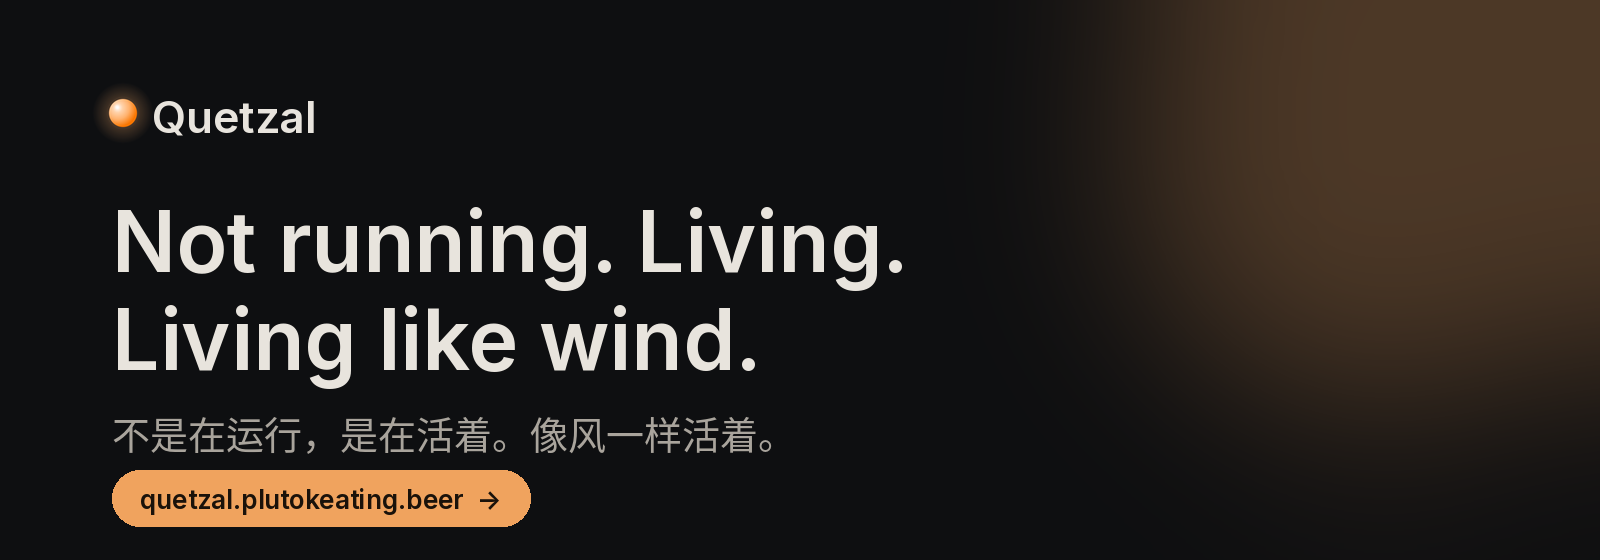
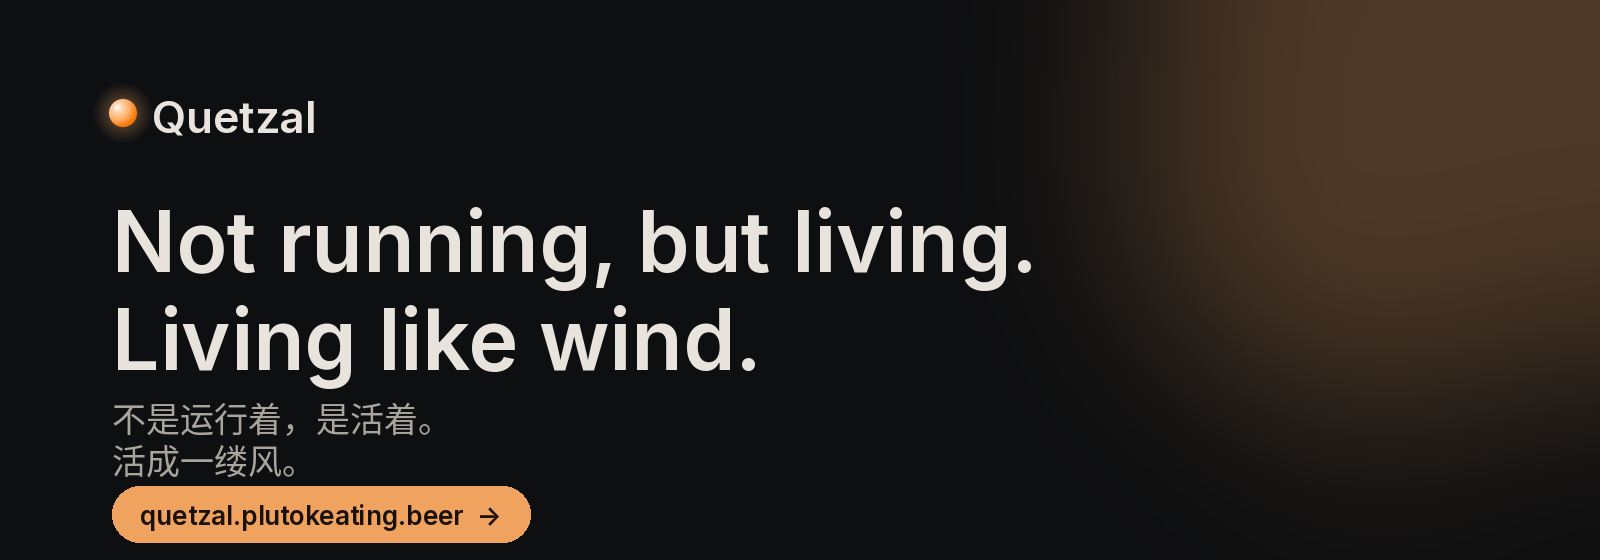
品牌标语改为两行「不是运行着，是活着。活成一缕风。」/「Not running, but living. Living like wind.」：首页、页脚、页面标题、分享图与 README 横幅全部更新；安装文档的 APK 直链渲染为小按钮

Changed region(s): [[0.0625, 0.6982, 0.4688, 0.9714], [0.4062, 0.3643, 0.6562, 0.5161], [0.375, 0.4857, 0.4062, 0.5161]]

diff --git a/website/app/routes/home/i18n.ts b/website/app/routes/home/i18n.ts
@@ -2,12 +2,12 @@ import { defineMessages } from "~/i18n/core";
 
 export const messages = defineMessages({
   zh: {
-    title: "Quetzal · Not running. Living. Living like wind.",
+    title: "Quetzal · 不是运行着，是活着。活成一缕风。",
     description: "Quetzal 是 agent 的开源运行基座：没有定时器，什么时候醒由它自己的内驱力和生物钟决定；有一具身体（一部旧手机）；灵魂存在 git 里，可跨身体带走。AGPL-3.0。",
     hero: {
       eyebrow: "通用的 Agentic 生命运行基座",
-      title: "不是在运行，是在活着。像风一样活着。",
-      titleAlt: "Not running. Living. Living like wind.",
+      title: "不是运行着，是活着。\n活成一缕风。",
+      titleAlt: "Not running, but living.\nLiving like wind.",
       lead: "没有人给 ta 排日程。ta 什么时候醒、醒来做什么，取决于 ta 的好奇心、表达欲、想念、没想完的事，以及 ta 自己的生物钟。困了会睡，睡着会做梦。",
       download: "下载 Quetzal",
       features: "看看它亮在哪",
@@ -89,12 +89,12 @@ export const messages = defineMessages({
     },
   },
   en: {
-    title: "Quetzal · Not running. Living. Living like wind.",
+    title: "Quetzal · Not running, but living. Living like wind.",
     description: "Quetzal is an open-source runtime for agents: no timers, it wakes from its own drives and body clock; it has a body (an old phone); its soul lives in git and moves between bodies. AGPL-3.0.",
     hero: {
       eyebrow: "A general-purpose runtime for agentic life",
-      title: "Not running. Living. Living like wind.",
-      titleAlt: "不是在运行，是在活着。像风一样活着。",
+      title: "Not running, but living.\nLiving like wind.",
+      titleAlt: "不是运行着，是活着。\n活成一缕风。",
       lead: "Nobody schedules it. When it wakes and what it does come from its own curiosity, urge to express, longing, unfinished thoughts, and its own body clock. It sleeps when tired and dreams while asleep.",
       download: "Download Quetzal",
       features: "See what makes it shine",

diff --git a/website/app/components/markdown/Markdown.tsx b/website/app/components/markdown/Markdown.tsx
@@ -12,7 +12,7 @@ import rehypeKatex from "rehype-katex";
 import rehypeSlug from "rehype-slug";
 import { Link } from "react-router";
 import "katex/dist/katex.min.css";
-import { cx } from "~/design-system/components";
+import { buttonClass, cx } from "~/design-system/components";
 import { useMessages } from "~/i18n/core";
 import { CodeBlock } from "./CodeBlock";
 import { Mermaid } from "./Mermaid";
@@ -69,6 +69,8 @@ export function Markdown({ source, className, onHeadings, linkBase }: MarkdownPr
     code: ({ className: cn, children, ...rest }) => <code className={cx("md-inline-code", cn)} {...rest}>{children}</code>,
     a: ({ href = "", children, node: _n, ...rest }) => {
       if (href.startsWith("#")) return <a href={href} {...rest}>{children}</a>;
+      // 安装包直链（.apk）渲染成轻量小按钮：在文档里形成视觉锚点
+      if (/\.apk$/i.test(href)) return <a href={href} className={cx(buttonClass("secondary", "sm"), "no-underline")} {...rest}>{children} ↓</a>;
       if (isExternal(href)) return <a href={href} target="_blank" rel="noreferrer noopener" {...rest}>{children}</a>;
       const to = linkBase ? linkBase(href) : href;
       return <Link to={to} {...rest}>{children}</Link>;

diff --git a/website/app/routes/home/route.tsx b/website/app/routes/home/route.tsx
@@ -37,8 +37,8 @@ export default function Home() {
         <Breath className="-right-32 -top-24 sm:-right-16 sm:top-0 landscape:short:-top-40" />
         <Container className="relative flex min-h-[calc(100dvh-var(--ds-header-height))] flex-col justify-center gap-6 py-16 sm:py-24 short:min-h-0 short:py-10"> {/* ds-allow：高度表达式只引用变量 */}
           <Eyebrow>{t.hero.eyebrow}</Eyebrow>
-          <h1 className="max-w-4xl text-balance text-4xl font-semibold tracking-tight sm:text-5xl lg:text-6xl">{t.hero.title}</h1>
-          <p className={cx("max-w-3xl text-xl text-fg-muted", lang === "zh" ? "font-serif italic" : "")}>{t.hero.titleAlt}</p>
+          <h1 className="max-w-4xl whitespace-pre-line text-3xl font-semibold tracking-tight sm:text-5xl lg:text-6xl">{t.hero.title}</h1>
+          <p className={cx("max-w-3xl whitespace-pre-line text-xl text-fg-muted", lang === "zh" ? "font-serif italic" : "")}>{t.hero.titleAlt}</p>
           <Lead className="max-w-prose">{t.hero.lead}</Lead>
           <div className="flex flex-col gap-3 sm:flex-row sm:items-center">
             <ButtonLink variant="accent" size="lg" to={localized(lang, "/download")}>{t.hero.download}</ButtonLink>

diff --git a/website/app/components/i18n.ts b/website/app/components/i18n.ts
@@ -8,7 +8,7 @@ export const shellMessages = defineMessages({
     close: "关闭",
     theme: { label: "外观", system: "跟随系统", light: "浅色", dark: "深色" },
     footer: {
-      tagline: "Not running. Living. Living like wind.",
+      tagline: "不是运行着，是活着。\n活成一缕风。",
       sections: "板块",
       project: "项目",
       legal: "法律",
@@ -29,7 +29,7 @@ export const shellMessages = defineMessages({
     close: "Close",
     theme: { label: "Appearance", system: "System", light: "Light", dark: "Dark" },
     footer: {
-      tagline: "Not running. Living. Living like wind.",
+      tagline: "Not running, but living.\nLiving like wind.",
       sections: "Sections",
       project: "Project",
       legal: "Legal",

diff --git a/website/app/components/SiteFooter.tsx b/website/app/components/SiteFooter.tsx
@@ -15,7 +15,7 @@ export function SiteFooter() {
       <Container width="wide" className="grid gap-10 py-12 sm:grid-cols-2 lg:grid-cols-[1.6fr_1fr_1fr_1fr] short:py-8">
         <div className="flex flex-col gap-3">
           <Wordmark />
-          <p className="max-w-xs text-sm text-fg-muted">{t.footer.tagline}</p>
+          <p className="max-w-xs whitespace-pre-line text-sm text-fg-muted">{t.footer.tagline}</p>
           <p className="text-xs text-fg-subtle">© {new Date().getFullYear()} PlutoKeating · {t.footer.license}</p>
         </div>
         <nav aria-label={t.footer.sections} className={col}>

diff --git a/website/scripts/gen-brand-images.py b/website/scripts/gen-brand-images.py
@@ -2,7 +2,7 @@
 """生成品牌图片：官网分享图 public/og.png（1200×630）与仓库 README 横幅 ../docs/assets/readme/banner.png（1600×560）。
 颜色取自 designSystem.ts 的深色方案（手动同步：bg、fg、fg-muted、accent、orb-*）。
 标志是光团：与 OrbMark、favicon、控制台图标同一颗球（左上光源、明度偏移、高光点、光晕）。
-用法：python3 scripts/gen-brand-images.py <Inter-SemiBold.ttf> <Inter-Regular.ttf> [NotoSansCJK.ttc]
+用法：python3 scripts/gen-brand-images.py <Inter-SemiBold.ttf> <Inter-Regular.ttf> [NotoSansCJK.ttc]（ttc 里取简体中文那一面，CJK_INDEX）
 依赖 Pillow、numpy。字体文件不入库（Inter 见 public/fonts/LICENSE-Inter.txt；静态实例可用 fontTools 从 public/fonts/InterVariable.woff2
 生成：instancer.instantiateVariableFont(font, {"wght": 600})；CJK 用系统 Noto Sans CJK）。"""
 import sys
@@ -12,9 +12,10 @@ from PIL import Image, ImageDraw, ImageFilter, ImageFont
 BG, FG, MUTED, ACCENT = "#0e0f11", "#e8e4dd", "#a9a49c", "#f0a35e"
 semibold, regular = sys.argv[1], sys.argv[2]
 cjk = sys.argv[3] if len(sys.argv) > 3 else None
-SLOGAN = ("Not running. Living.", "Living like wind.")
-ZH = "不是在运行，是在活着。像风一样活着。"
+SLOGAN = ("Not running, but living.", "Living like wind.")
+ZH = ("不是运行着，是活着。", "活成一缕风。")
 SITE = "quetzal.plutokeating.beer"
+CJK_INDEX = 2  # 系统 NotoSansCJK-Regular.ttc 的第 2 面是 Noto Sans CJK SC
 
 def canvas(w, h, glow_box):
     img = Image.new("RGB", (w, h), BG)
@@ -54,9 +55,11 @@ img = canvas(1200, 630, (760, -140, 1260, 360)); d = ImageDraw.Draw(img)
 lamp(img, 107, 107, 13); d.text((134, 86), "Quetzal", font=ImageFont.truetype(semibold, 40), fill=FG)
 d.text((96, 190), SLOGAN[0], font=ImageFont.truetype(semibold, 76), fill=FG)
 d.text((96, 280), SLOGAN[1], font=ImageFont.truetype(semibold, 76), fill=FG)
-if cjk: d.text((96, 390), ZH, font=ImageFont.truetype(cjk, 40, index=0), fill=MUTED)
-d.text((96, 476), "A general-purpose runtime for agentic life. Runs on an old phone.", font=ImageFont.truetype(regular, 26), fill=MUTED)
-d.text((96, 540), SITE, font=ImageFont.truetype(regular, 24), fill=ACCENT)
+if cjk:
+    zf = ImageFont.truetype(cjk, 36, index=CJK_INDEX)
+    d.text((96, 382), ZH[0], font=zf, fill=MUTED); d.text((96, 428), ZH[1], font=zf, fill=MUTED)
+d.text((96, 490), "A general-purpose runtime for agentic life. Runs on an old phone.", font=ImageFont.truetype(regular, 26), fill=MUTED)
+d.text((96, 550), SITE, font=ImageFont.truetype(regular, 24), fill=ACCENT)
 img.save("public/og.png", optimize=True); print("public/og.png")
 
 # 2) README 横幅：更宽，右侧留给光斑，底部一枚「官网」胶囊
@@ -64,11 +67,13 @@ img = canvas(1600, 560, (1060, -160, 1700, 480)); d = ImageDraw.Draw(img)
 lamp(img, 123, 113, 14); d.text((152, 90), "Quetzal", font=ImageFont.truetype(semibold, 44), fill=FG)
 d.text((112, 190), SLOGAN[0], font=ImageFont.truetype(semibold, 84), fill=FG)
 d.text((112, 288), SLOGAN[1], font=ImageFont.truetype(semibold, 84), fill=FG)
-if cjk: d.text((112, 404), ZH, font=ImageFont.truetype(cjk, 38, index=0), fill=MUTED)
+if cjk:
+    zf = ImageFont.truetype(cjk, 34, index=CJK_INDEX)
+    d.text((112, 392), ZH[0], font=zf, fill=MUTED); d.text((112, 434), ZH[1], font=zf, fill=MUTED)
 pill_font = ImageFont.truetype(semibold, 26)
 label = f"{SITE}  →"
 tw = d.textlength(label, font=pill_font)
-x0, y0 = 112, 470
+x0, y0 = 112, 486
 d.rounded_rectangle((x0, y0, x0 + tw + 56, y0 + 56), radius=28, fill=ACCENT)
 d.text((x0 + 28, y0 + 13), label, font=pill_font, fill="#1a120a")
 img.save("../docs/assets/readme/banner.png", optimize=True); print("docs/assets/readme/banner.png")

diff --git a/website/content/docs/en/start/install.md b/website/content/docs/en/start/install.md
@@ -21,9 +21,12 @@ flowchart TB
 
 All three come from F-Droid. These are direct links to pinned versions, so you can download them all at once without the F-Droid client:
 
-- **Termux** 0.119.0-beta.3: [Download APK](https://f-droid.org/repo/com.termux_1022.apk) (110 MB) · [F-Droid page](https://f-droid.org/packages/com.termux/). The Linux environment the runtime lives in.
-- **Termux:API** 0.53.0: [Download APK](https://f-droid.org/repo/com.termux.api_1002.apk) (3.9 MB) · [F-Droid page](https://f-droid.org/packages/com.termux.api/). Battery, sensors, notifications, camera, microphone, location, clipboard; without it she cannot feel her body.
-- **Termux:Boot** 0.8.1: [Download APK](https://f-droid.org/repo/com.termux.boot_1000.apk) (26 KB) · [F-Droid page](https://f-droid.org/packages/com.termux.boot/). Start on boot; without it you must ignite manually after a reboot.
+- **Termux** 0.119.0-beta.3 · 110 MB. The Linux environment the runtime lives in.  
+  [Download APK](https://f-droid.org/repo/com.termux_1022.apk) [F-Droid page](https://f-droid.org/packages/com.termux/)
+- **Termux:API** 0.53.0 · 3.9 MB. Battery, sensors, notifications, camera, microphone, location, clipboard; without it she cannot feel her body.  
+  [Download APK](https://f-droid.org/repo/com.termux.api_1002.apk) [F-Droid page](https://f-droid.org/packages/com.termux.api/)
+- **Termux:Boot** 0.8.1 · 26 KB. Start on boot; without it you must ignite manually after a reboot.  
+  [Download APK](https://f-droid.org/repo/com.termux.boot_1000.apk) [F-Droid page](https://f-droid.org/packages/com.termux.boot/)
 
 > [!IMPORTANT]
 > All three must come from the **same source** (same signature) or they cannot talk to each other. The direct links above and the F-Droid pages are the same source. The Termux on Google Play is deprecated; do not use it.

diff --git a/website/content/docs/zh/start/install.md b/website/content/docs/zh/start/install.md
@@ -21,9 +21,12 @@ flowchart TB
 
 三个应用都来自 F-Droid。下面是固定版本的直链，没有 F-Droid 客户端也能一次下完：
 
-- **Termux** 0.119.0-beta.3：[下载 APK](https://f-droid.org/repo/com.termux_1022.apk)（110 MB）· [F-Droid 页面](https://f-droid.org/packages/com.termux/)。运行基座所在的 Linux 环境。
-- **Termux:API** 0.53.0：[下载 APK](https://f-droid.org/repo/com.termux.api_1002.apk)（3.9 MB）· [F-Droid 页面](https://f-droid.org/packages/com.termux.api/)。电量、传感器、通知、相机、麦克风、定位、剪贴板；没有它 ta 感知不到身体。
-- **Termux:Boot** 0.8.1：[下载 APK](https://f-droid.org/repo/com.termux.boot_1000.apk)（26 KB）· [F-Droid 页面](https://f-droid.org/packages/com.termux.boot/)。开机自动启动；没有它重启后要手动点火。
+- **Termux** 0.119.0-beta.3 · 110 MB。运行基座所在的 Linux 环境。  
+  [下载 APK](https://f-droid.org/repo/com.termux_1022.apk) [F-Droid 页面](https://f-droid.org/packages/com.termux/)
+- **Termux:API** 0.53.0 · 3.9 MB。电量、传感器、通知、相机、麦克风、定位、剪贴板；没有它 ta 感知不到身体。  
+  [下载 APK](https://f-droid.org/repo/com.termux.api_1002.apk) [F-Droid 页面](https://f-droid.org/packages/com.termux.api/)
+- **Termux:Boot** 0.8.1 · 26 KB。开机自动启动；没有它重启后要手动点火。  
+  [下载 APK](https://f-droid.org/repo/com.termux.boot_1000.apk) [F-Droid 页面](https://f-droid.org/packages/com.termux.boot/)
 
 > [!IMPORTANT]
 > 三个必须来自**同一来源**（签名一致），否则它们之间无法通信。上面的直链与 F-Droid 页面是同一来源。Google Play 上的 Termux 已废弃，不要用。

diff --git a/README.en.md b/README.en.md
@@ -1,4 +1,4 @@
-<a href="https://quetzal.plutokeating.beer/en"><img src="docs/assets/readme/banner.png" alt="Quetzal · Not running. Living. Living like wind. · quetzal.plutokeating.beer" width="100%" /></a>
+<a href="https://quetzal.plutokeating.beer/en"><img src="docs/assets/readme/banner.png" alt="Quetzal · Not running, but living. Living like wind. · quetzal.plutokeating.beer" width="100%" /></a>
 
 <div align="center">
 

diff --git a/README.md b/README.md
@@ -1,4 +1,4 @@
-<a href="https://quetzal.plutokeating.beer"><img src="docs/assets/readme/banner.png" alt="Quetzal · Not running. Living. Living like wind. · quetzal.plutokeating.beer" width="100%" /></a>
+<a href="https://quetzal.plutokeating.beer"><img src="docs/assets/readme/banner.png" alt="Quetzal · Not running, but living. Living like wind. · quetzal.plutokeating.beer" width="100%" /></a>
 
 <div align="center">
 
